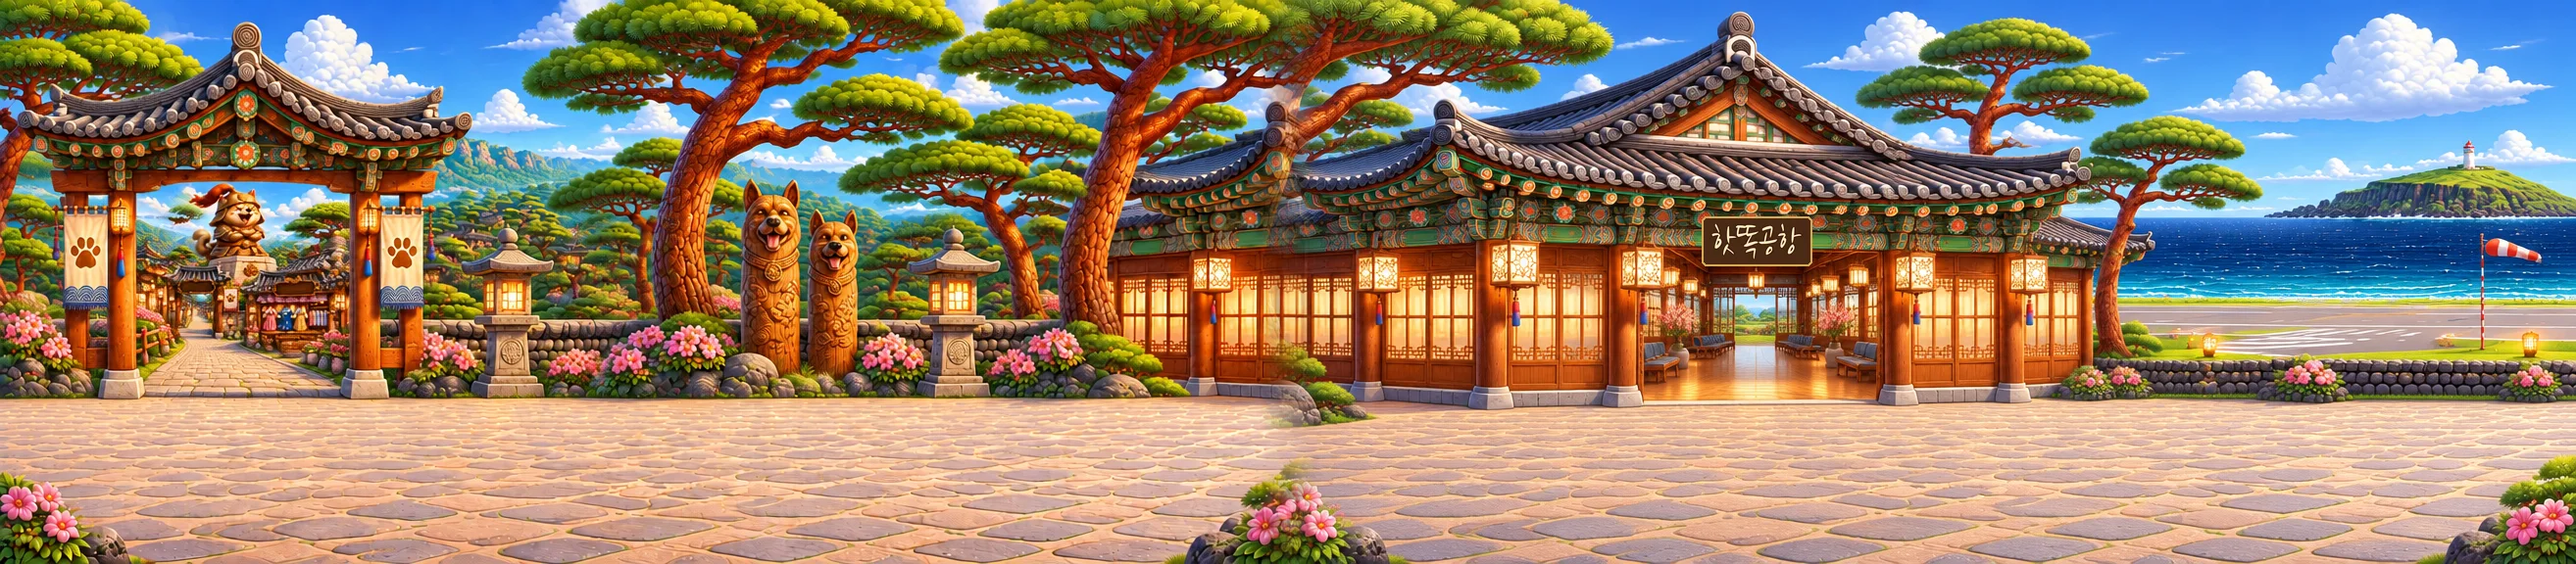
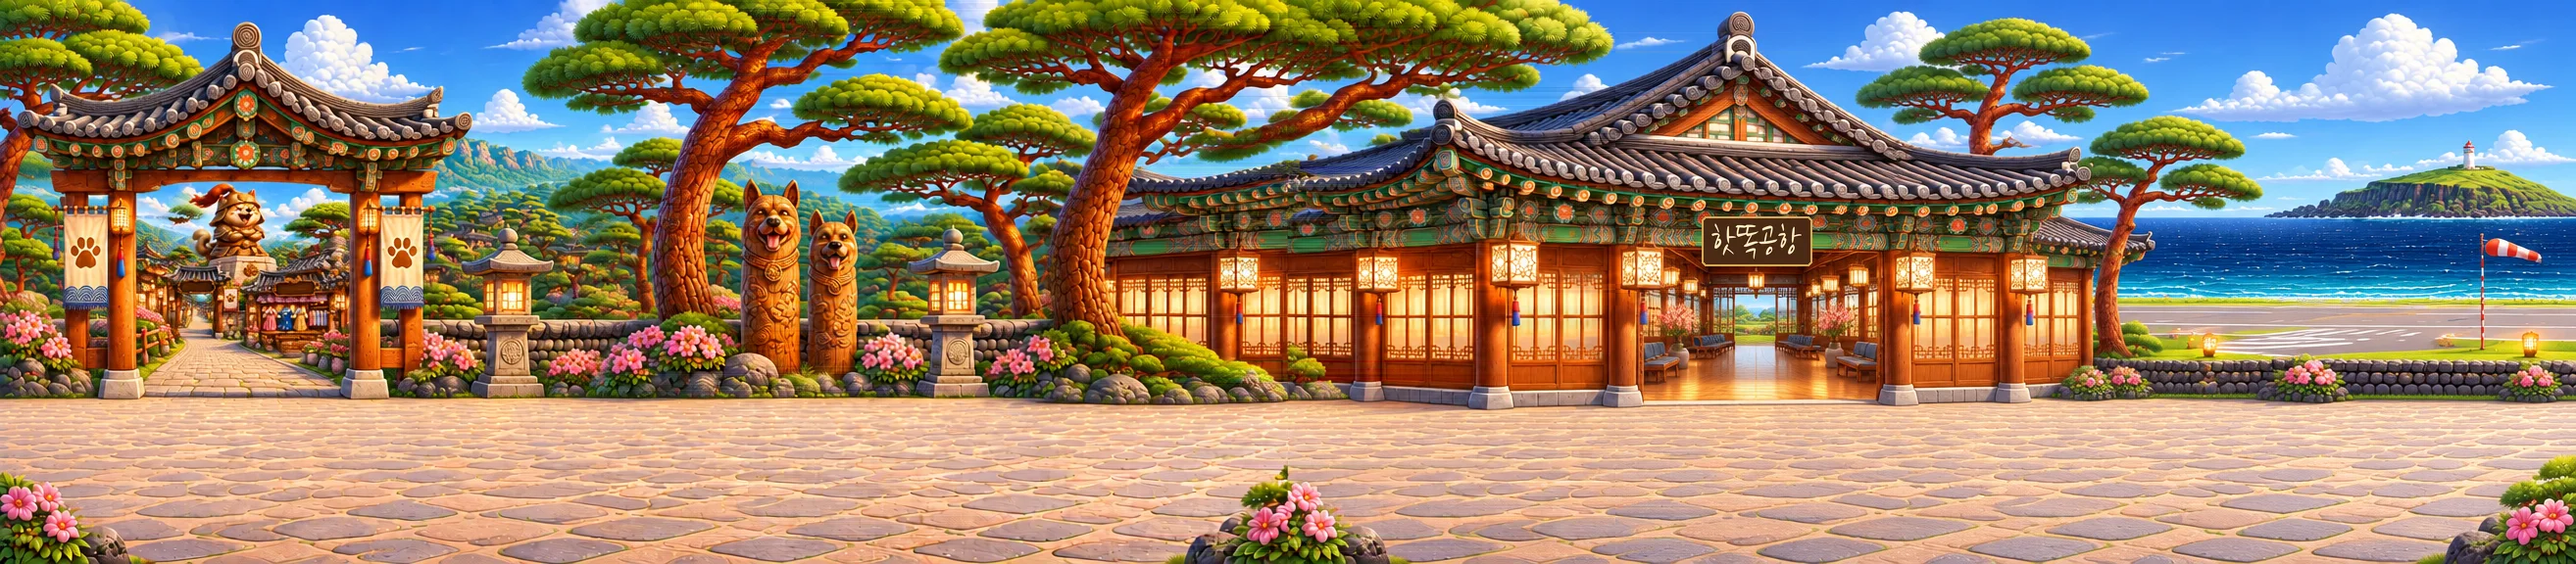
핫똑랜드 예시판: 배경 이음매 수리, 그네·의자 자리 맞춤, 탕에 들어가기, 찻집 차림표 7종·같이 마시기, 상점 물건 그림, 시츄 시녀 2마리(표정 4종), 길·나루터 밖 걷기 막음, 꼬리땐스 입은 옷 그대로
Claude-Session: https://claude.ai/code/session_015t7mweLLBzEFYGgsGmysr6

Changed region(s): [[0.312, 0.0, 0.624, 1.0], [0.5928, 0.9062, 0.624, 0.9375], [0.312, 0.9688, 0.3432, 1.0]]

diff --git a/css/app.css b/css/app.css
@@ -3264,8 +3264,13 @@ img.kb-sic { width: 30px; height: 30px; object-fit: contain; display: block; mar
 .hd-sh { position: absolute; width: 62px; height: 15px; margin-bottom: -6px; transform: translateX(-50%); border-radius: 50%; background: radial-gradient(ellipse at center, rgba(40,22,8,.38) 0, rgba(40,22,8,.2) 45%, transparent 72%); pointer-events: none; }
 .hd-tailhost { position: fixed; inset: 0; z-index: 9990; }
 .hd-boom { position: absolute; font-size: 30px; font-style: normal; z-index: 45; transform: translateX(-50%); pointer-events: none; transition: left 1.1s cubic-bezier(.2,.7,.4,1); } .hd-boom.fly { animation: hdSpin .35s linear infinite, hdArc 1.1s ease-out forwards; } @keyframes hdSpin { to { rotate: 360deg; } } @keyframes hdArc { 0% { translate: 0 0; } 50% { translate: 0 -70px; } 100% { translate: 0 10px; } }
-.hd-swing { position: absolute; bottom: 22%; height: 46%; transform: translateX(-50%); z-index: 3; pointer-events: none; } .hd-swing img { height: 100%; display: block; }
-.fm-me.hd-sw svg { animation: hdSwing 1.6s ease-in-out infinite; transform-origin: 50% -160%; } @keyframes hdSwing { 0%, 100% { rotate: -11deg; } 50% { rotate: 11deg; } }
+.hd-swing { position: absolute; bottom: 20%; height: 46%; transform: translateX(-50%); z-index: 3; pointer-events: none; } .hd-swing img { height: 100%; display: block; } .hd-swing .hd-seat { position: absolute; left: 0; top: 0; transform-origin: 50% 7%; z-index: 26; }
+.fm-me.hd-inwater, .hd-dog.soak { clip-path: inset(0 0 42% 0); } .hd-world:has(.hd-dog.soak) .hd-sh { display: none; }
+.so-row .hd-ic { width: 46px; height: 46px; object-fit: contain; flex: none; }
+.hd-boom img { width: 34px; display: block; }
+.hd-cup { position: absolute; bottom: 31%; width: 26px; transform: translateX(-50%); z-index: 30; pointer-events: none; animation: hdSip 1.4s ease-in-out 3; } .hd-cup.b { animation-delay: .7s; } @keyframes hdSip { 0%, 100% { translate: 0 0; rotate: 0deg; } 40%, 60% { translate: 0 -30px; rotate: -18deg; } }
+.hd-dog.hd-sip { animation: hdNod 1.4s ease-in-out .7s 3; } .fm-me.hd-sipme svg { animation: hdNod 1.4s ease-in-out 3; } @keyframes hdNod { 40%, 60% { rotate: -5deg; translate: 0 -2px; } }
 .hd-up { position: absolute; transform: translateX(-50%); z-index: 50; font: 900 18px/1 var(--head); font-style: normal; color: #FF5C8A; text-shadow: 0 2px 0 #fff; pointer-events: none; animation: hdUp 1.3s ease-out forwards; } @keyframes hdUp { to { translate: 0 -34px; opacity: 0; } }
 .hd-card img.hd-keeper { width: min(100%, 250px); border-radius: 16px; border: 3px solid #C9A04A; } .hd-card img.hd-fish { width: 170px; } .hd-new { color: #E5484D; font-weight: 900; font-style: normal; }
 .hd-dex { display: grid; grid-template-columns: repeat(2, 1fr); gap: 8px; } .hd-dexc { display: flex; flex-direction: column; align-items: center; gap: 2px; padding: 8px 4px; border-radius: 12px; background: #FFF8E8; border: 2px solid #E8D3AE; } .hd-dexc img { width: 92px; height: 60px; object-fit: contain; } .hd-dexc b { font-size: 13px; } .hd-dexc small { font-size: 11px; font-weight: 800; } .hd-dexc.no img { filter: brightness(0) opacity(.28); }
+.so-row.hd-row { display: grid; grid-template-columns: 50px 1fr; grid-template-rows: auto auto; column-gap: 10px; align-items: center; text-align: left; } .so-row.hd-row .hd-ic { grid-row: 1 / 3; } .so-row.hd-row b, .so-row.hd-row small { grid-column: 2; }
